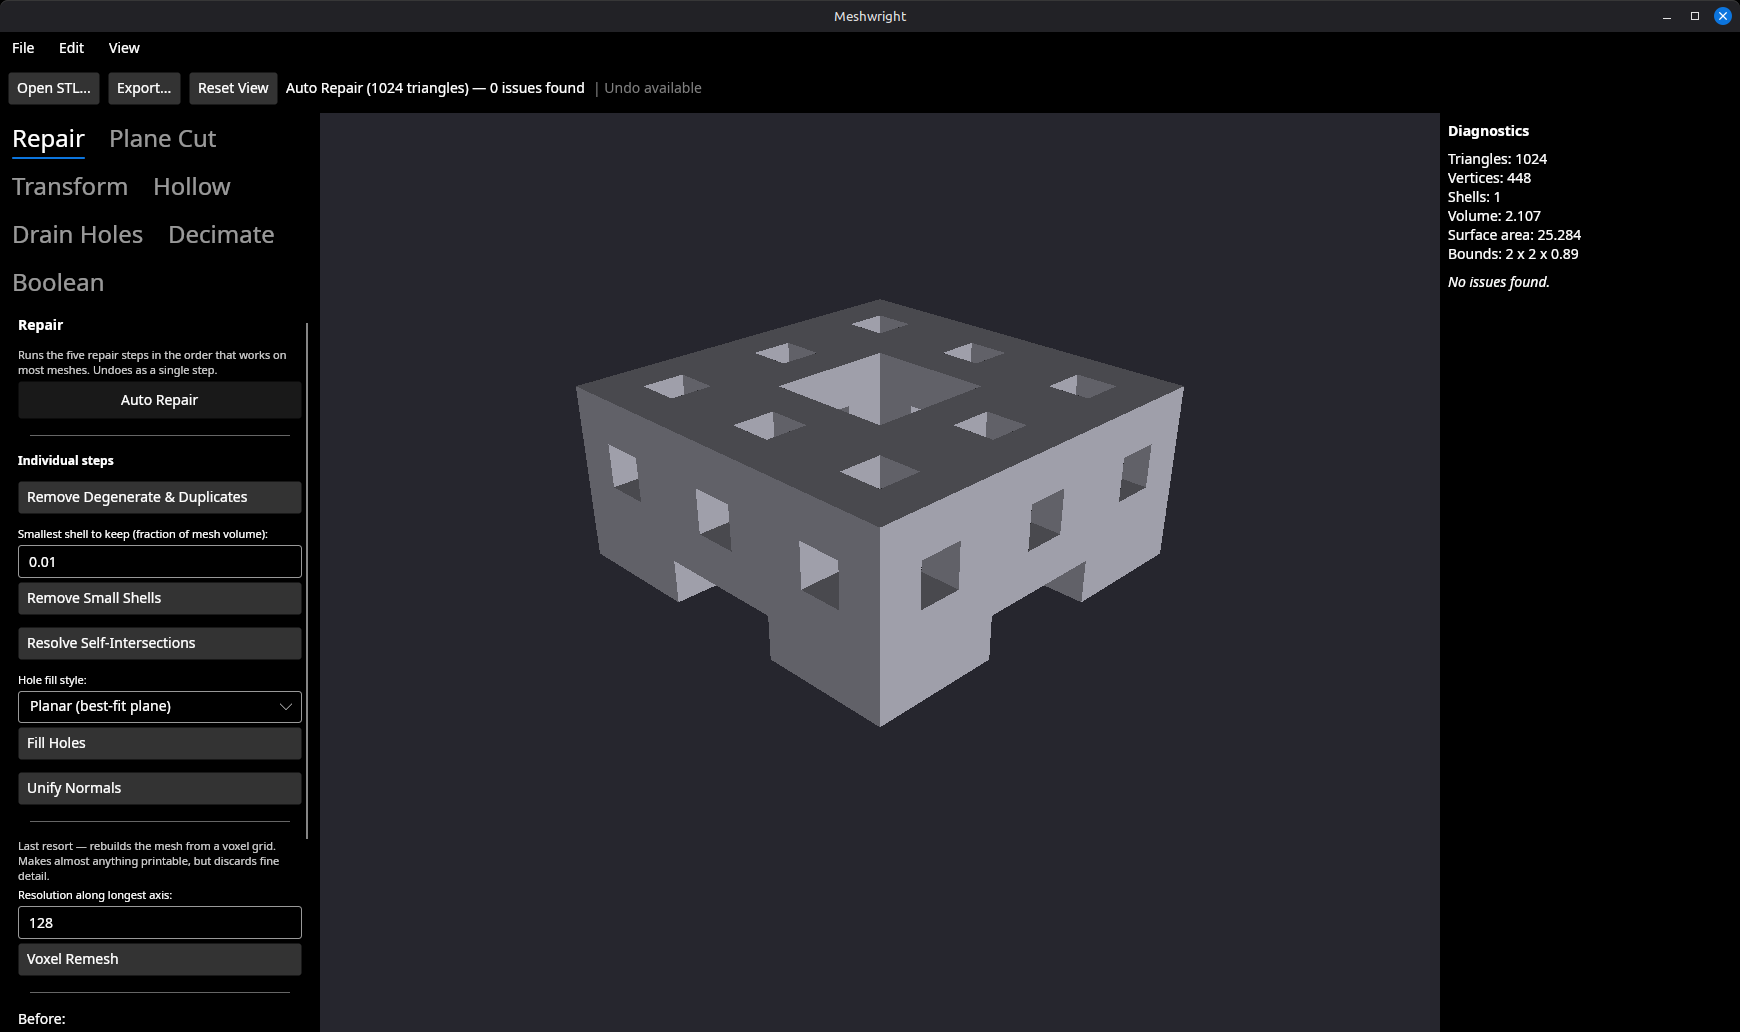
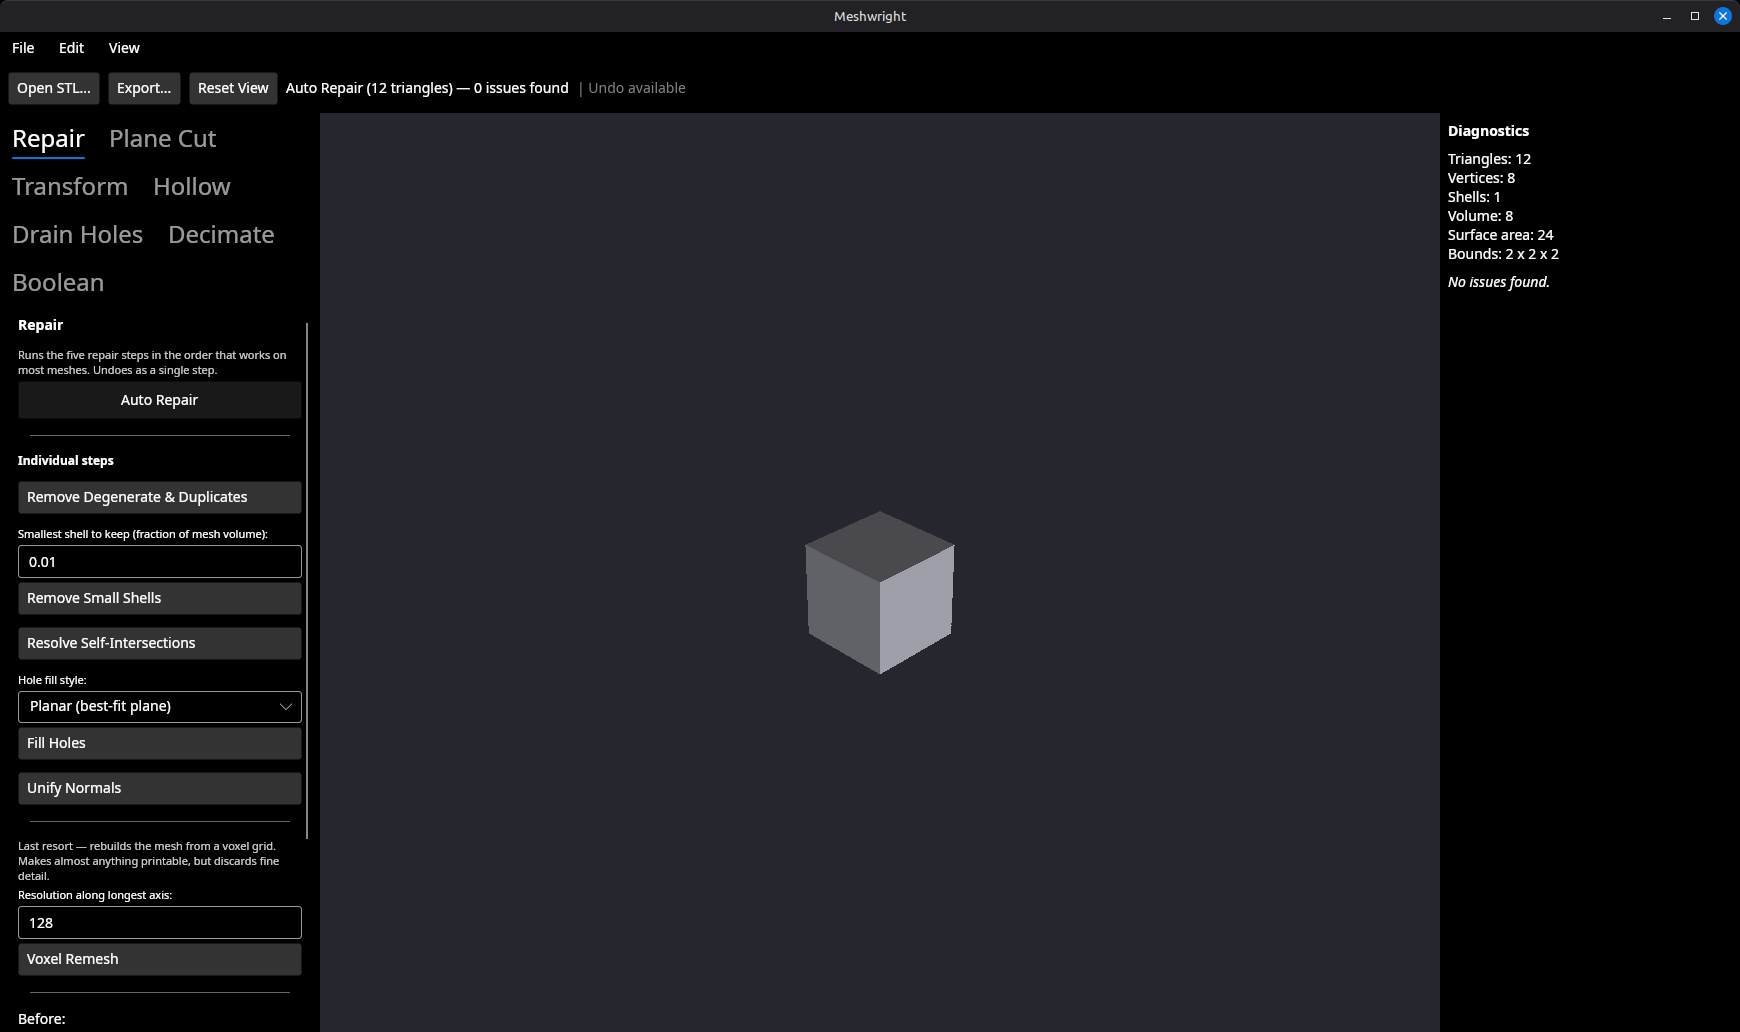
Correct the usage guide after the plane cut fix
The Auto Repair screenshot showed a mesh that had been quietly mutilated:
the repair reported "0 issues found" only because it had deleted the
model's cut end, which is why its bounds had shrunk. Replaces it with
samples/broken-cube.stl, which the repo ships for exactly this — a missing
face, three flipped normals and a stray shell, all fixed in one click into
a closed cube of volume exactly 8.

The plane-cut screenshot is retaken now that a cut returns a single shell
that keeps the model's bounds and volume.

Rewrites two entries in the rough-edges list to say what is actually true
now: cuts through a single-loop cross-section close correctly, while a
cross-section of several separate loops still gets one cap built across
all of them; and Auto Repair's small-shell step can delete real geometry
on a model with legitimately small separate parts, with the bounds in the
diagnostics panel as the tell.

Changed region(s): [[0.3103, 0.2791, 0.6828, 0.7132], [0.2172, 0.062, 0.4034, 0.093], [0.869, 0.155, 0.9, 0.186]]

diff --git a/docs/usage.html b/docs/usage.html
@@ -295,6 +295,17 @@
     </ul>
 
     <figure>
+      <img src="images/inspect-broken.png" width="1740" height="1032"
+           alt="Meshwright showing the broken-cube sample: a hole outlined in yellow, three faces in
+                red, and a diagnostics list naming one hole, three flipped faces and one stray shell.">
+      <figcaption>
+        <code>samples/broken-cube.stl</code>, shipped for exactly this: a missing
+        face, three flipped normals and a stray tetrahedron, each named and
+        located. Small enough to see every defect at once.
+      </figcaption>
+    </figure>
+
+    <figure>
       <img src="images/inspect-clean.png" width="1740" height="1032"
            alt="Meshwright showing a Menger sponge model with the diagnostics panel reporting one
                 shell and no issues found.">
@@ -327,11 +338,13 @@
 
     <figure>
       <img src="images/auto-repair.png" width="1740" height="1032"
-           alt="Meshwright after running Auto Repair: the status line reads 1024 triangles with 0
-                issues found, and the diagnostics panel reports one shell and no issues.">
+           alt="Meshwright after running Auto Repair on the broken cube: the status line reads 12
+                triangles with 0 issues found, and the diagnostics panel reports one shell and no
+                issues.">
       <figcaption>
-        The same mesh after Auto Repair: 856 issues and 66 shells reduced to
-        <em>No issues found</em> and a single closed shell.
+        The broken cube above after one click: the stray shell gone, the missing
+        face closed, normals unified — one shell, <em>No issues found</em>, and a
+        volume of exactly 8 for a 2 × 2 × 2 cube.
       </figcaption>
     </figure>
 
@@ -377,11 +390,12 @@
     <figure>
       <img src="images/plane-cut.png" width="1740" height="1032"
            alt="Meshwright after a plane cut: the Menger sponge is halved, bounds now read 2 x 2 x 1,
-                and the diagnostics panel lists non-manifold edges introduced along the cut.">
+                the diagnostics panel reports a single shell, and some defects remain along the cut.">
       <figcaption>
-        A cut through the middle: 2,112 triangles down to 1,182, bounds from
-        2 × 2 × 2 to 2 × 2 × 1. Note the defects introduced along the cut —
-        see <a href="#known">known rough edges</a>.
+        A cut through the middle: bounds from 2 × 2 × 2 to 2 × 2 × 1, still a
+        single shell. The remaining defects are all in the cap, because this
+        cross-section is many separate loops — see
+        <a href="#known">known rough edges</a>.
       </figcaption>
     </figure>
 
@@ -444,11 +458,21 @@
     </p>
     <ul>
       <li>
-        <strong>Plane cut results are not watertight yet.</strong> The cap does not
-        close the shell properly, so a cut leaves non-manifold edges and stray
-        shells behind — visible in the plane-cut screenshot above. Run
-        <strong>Auto Repair</strong> after a cut and it cleans up to a single
-        closed shell.
+        <strong>Cutting through a complex cross-section leaves a bad cap.</strong>
+        A cut whose cross-section is a single loop closes correctly. Where the
+        plane passes through several separate loops at once — the Menger sponge
+        screenshot above, or any model with holes through it — the cap is built
+        as one loop across all of them, which leaves self-intersections along the
+        cut. The cut itself is sound: the model keeps its bounds and volume, and
+        the damage is confined to the cap.
+      </li>
+      <li>
+        <strong>Repair can remove geometry it mistakes for debris.</strong>
+        Auto Repair's small-shell step deletes shells under 1% of total volume,
+        and it cannot tell a genuine stray fragment from a real part of a model
+        that arrived in pieces. On a model with legitimately small separate
+        parts, lower the threshold or run the steps individually. Watch the
+        bounds in the diagnostics panel: if they shrink, something was deleted.
       </li>
       <li>
         <strong>Boolean cannot use your own second mesh.</strong> It always
